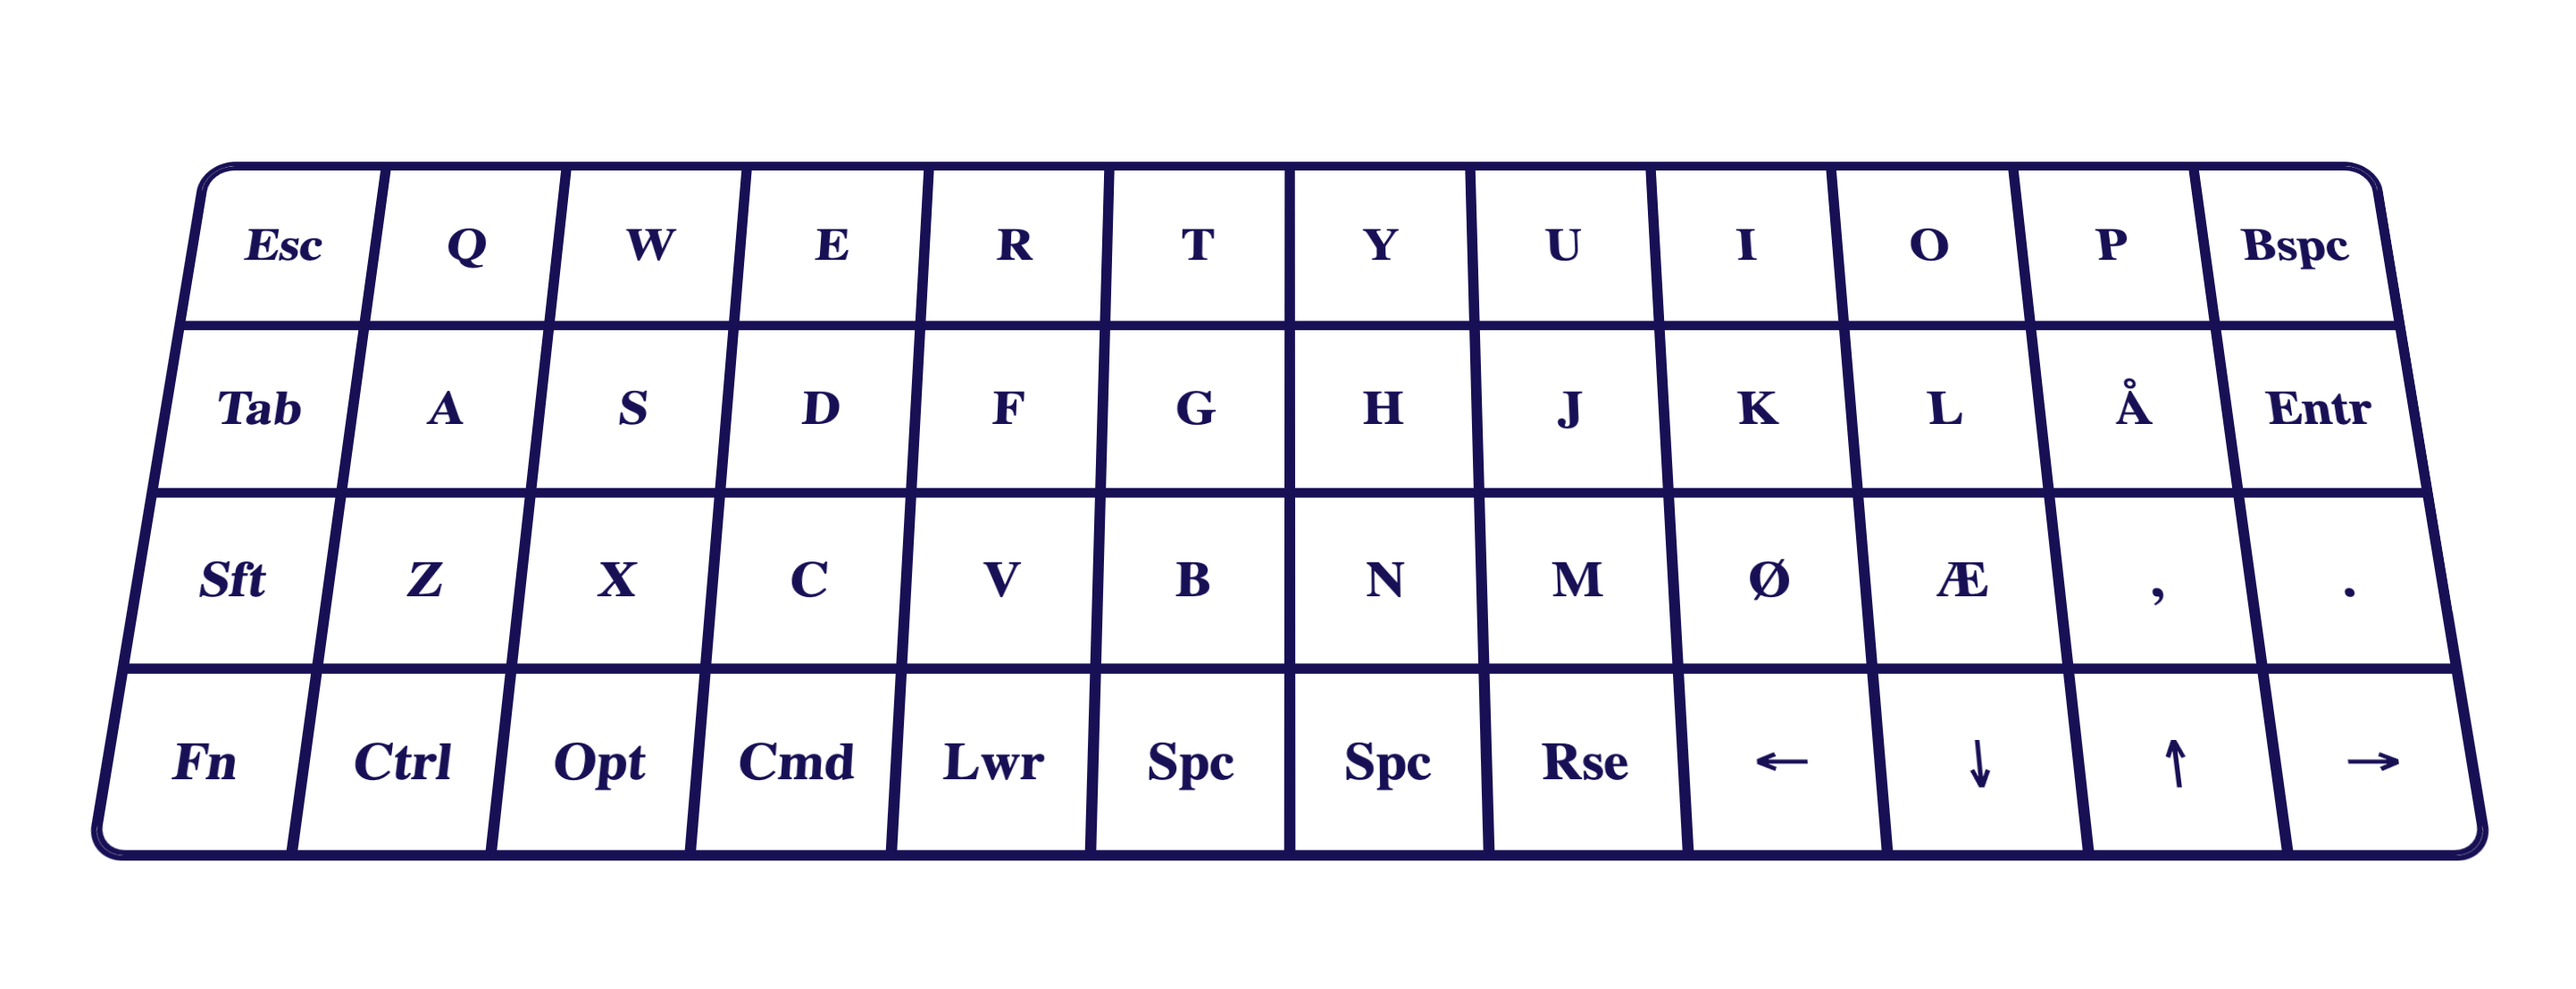
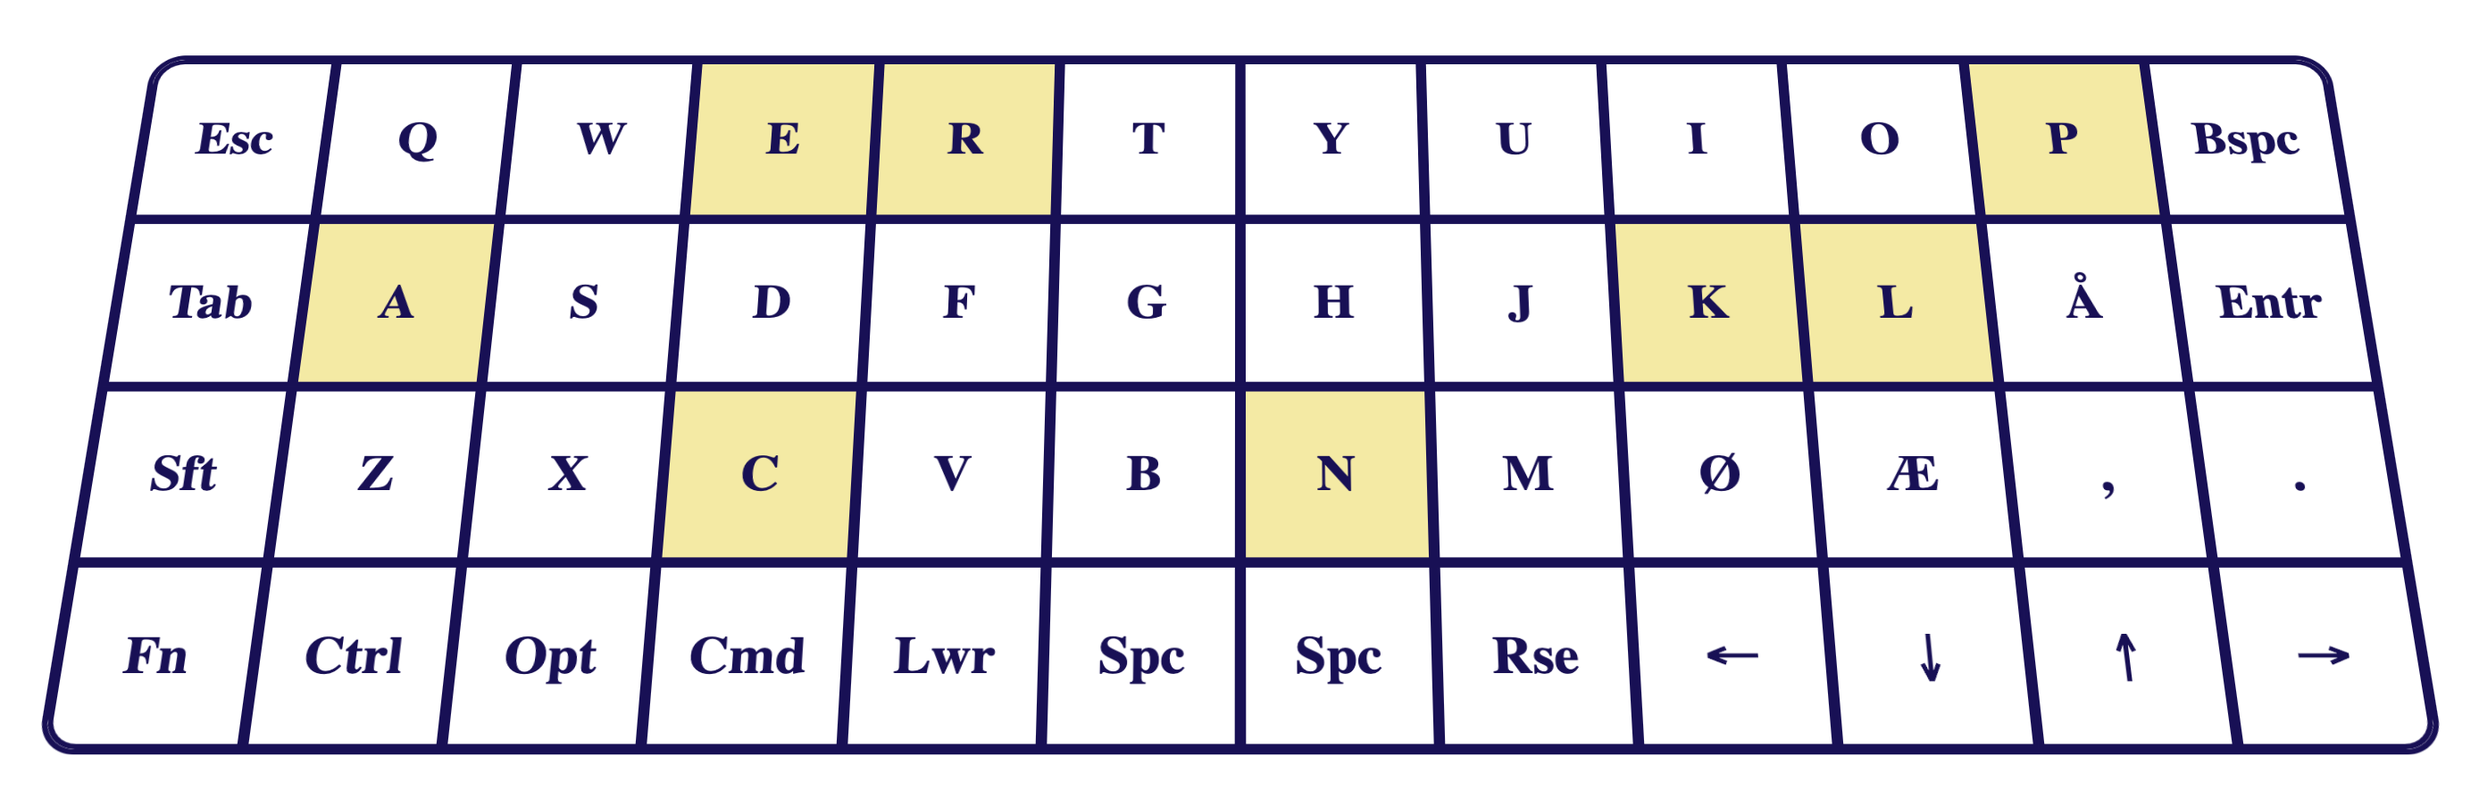
WIP key drag

diff --git a/src/components/Home.vue b/src/components/Home.vue
@@ -17,8 +17,8 @@
         </ul>
       </div>
       <div class="keyboard">
-        <ul class="keyboard__keys":style="keyboardTiltStyle">
-          <li v-for="(key, i) in keys" class="keyboard__key key" :class="`key--${i}`">
+        <ul class="keyboard__keys" :style="keyboardTiltStyle">
+          <li v-for="(key, i) in keys" class="keyboard__key key" :class="`key--${i}`" :ref="`key--${i}`">
             <span class="key__name">{{ key.name }}</span>
             <span class="key__code">{{ key.code }}</span>
           </li>
@@ -56,6 +56,30 @@ export default {
         max: 100,
       },
     }
+  },
+  mounted() {
+    this.addEventListeners()
+  },
+  destroyed() {
+    this.removeEventListeners()
+  },
+  methods: {
+    handleDrag(e) {
+      if (!e.target && !e.target.classList.contains('key')) return
+      e.preventDefault()
+      console.log('heisann', e)
+      e.target.classList.add('key--drag')
+    },
+    addEventListeners() {
+      document.addEventListener('mousedown', this.handleDrag)
+      document.addEventListener('mouseup', this.stopDrag)
+      document.addEventListener('mousemove', this.drag)
+    },
+    removeEventListeners() {
+      document.removeEventListener('mousedown', this.handleDrag)
+      document.removeEventListener('mouseup', this.stopDrag)
+      document.removeEventListener('mousemove', this.drag)
+    },
   },
   computed: {
     rows() {

diff --git a/src/assets/sass/modules/_keyboard.scss b/src/assets/sass/modules/_keyboard.scss
@@ -71,7 +71,12 @@
   flex-direction: column;
   align-items: center;
   justify-content: center;
-  transition: ease 1s 1s background;
+  transition: ease 0.3s all;
+  cursor: grab;
+
+  > * {
+    pointer-events: none;
+  }
 
   &__name {
     font-weight: 600;
@@ -87,6 +92,9 @@
     display: none;
   }
 
+  &:active {
+    cursor: grabbing;
+  }
   &:hover {
     background: $color__primary;
     transition: 0s;
@@ -96,4 +104,11 @@
   &--11 { border-top-right-radius: 17px; }
   &--36 { border-bottom-left-radius: 17px; }
   &--47 { border-bottom-right-radius: 17px; }
+
+  &--drag {
+    background: $color__primary;
+    &:hover {
+      background: $color__primary;
+    }
+  }
 }

diff --git a/src/assets/sass/modules/_slider.scss b/src/assets/sass/modules/_slider.scss
@@ -18,7 +18,7 @@
     bottom: 0;
     width: 8px;
     top: 50%;
-    background: $color__black;
+    background: $color__light;
     position: absolute;
     border-radius: inherit;
     transition: ease 0.3s all;
@@ -99,6 +99,8 @@
     }
     .slider__fill {
       transition: 0s;
+      transition: ease 0.3s background;
+      background: $color__black;
     }
   }
 }
